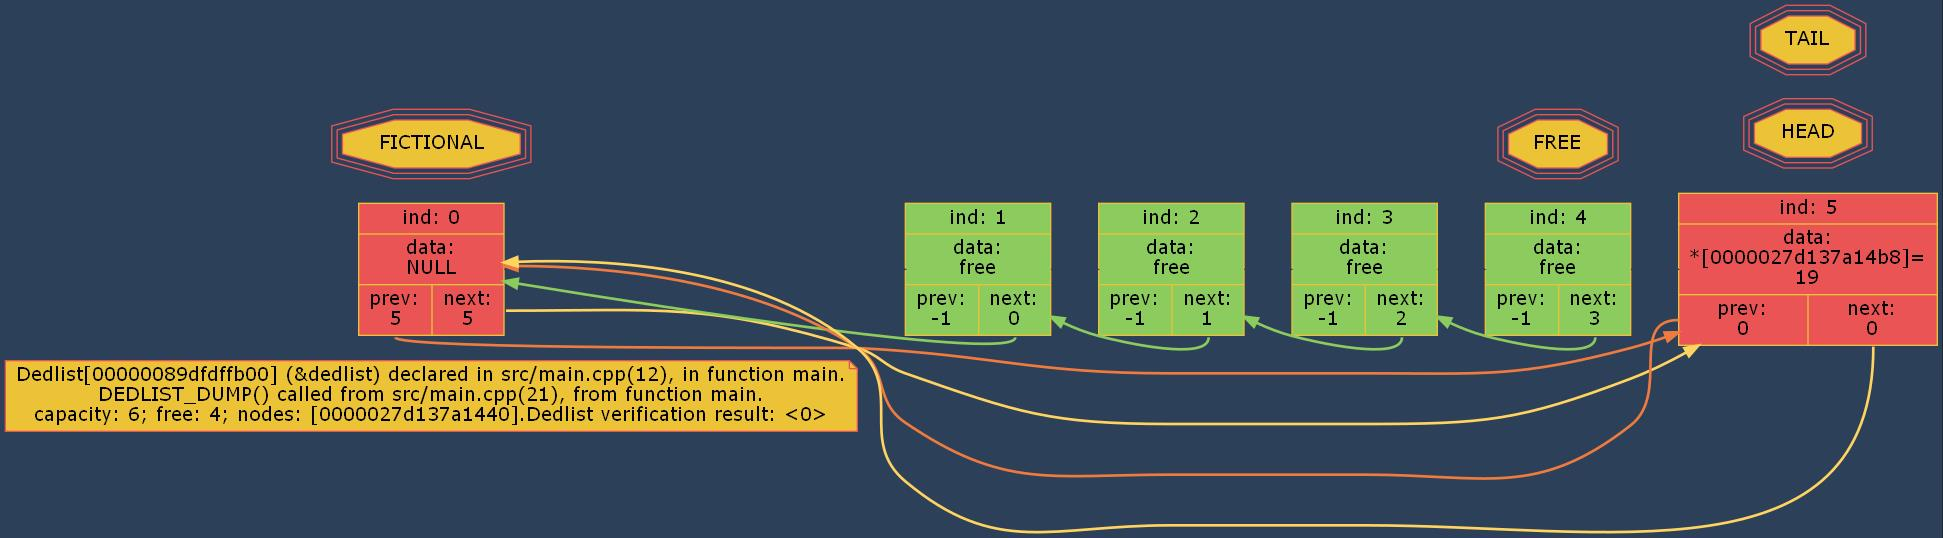
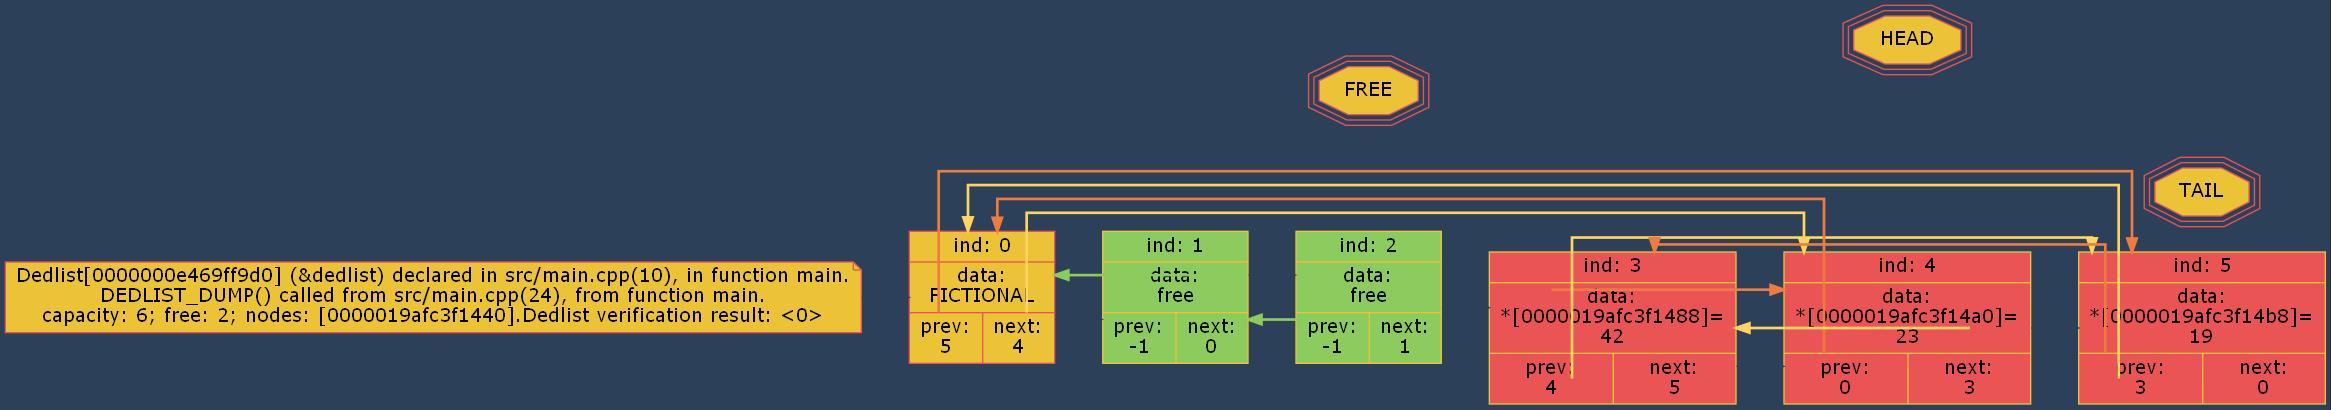
небольшие изменении в графическом дампе

diff --git a/src/dedlist.cpp b/src/dedlist.cpp
@@ -50,7 +50,7 @@ DedlistStatusCode dedlist_push_head(    Dedlist *dedlist_ptr,
                                         Elem_t value,
                                         size_t* inserted_elem_anchor_ptr )
 {
-    return dedlist_insert( dedlist_ptr, dedlist_get_head_ind(dedlist_ptr), value, inserted_elem_anchor_ptr );
+    return dedlist_insert( dedlist_ptr, 0, value, inserted_elem_anchor_ptr );
 }
 
 DedlistStatusCode dedlist_push_tail(    Dedlist *dedlist_ptr,
@@ -60,6 +60,21 @@ DedlistStatusCode dedlist_push_tail(    Dedlist *dedlist_ptr,
     return dedlist_insert( dedlist_ptr, dedlist_get_tail_ind(dedlist_ptr), value, inserted_elem_anchor_ptr );
 }
 
+
+
+size_t dedlist_get_head_ind( Dedlist *dedlist_ptr )
+{
+    assert(dedlist_ptr);
+
+    return (size_t) dedlist_ptr->nodes[0].next;
+}
+
+size_t dedlist_get_tail_ind( Dedlist *dedlist_ptr )
+{
+    assert(dedlist_ptr);
+
+    return (size_t) dedlist_ptr->nodes[0].prev;
+}
 
 void dedlist_print_status_code_message( DedlistStatusCode code, FILE *stream)
 {
@@ -238,7 +253,7 @@ inline DedlistStatusCode write_dot_file_for_dump_(  FILE *dot_file,
     //---------------------------------------------------------------------
     fprintf(dot_file,   "digraph{\n"
                         "rankdir=LR;\n"
-                        "bgcolor=\"" COLOR_BG "\";\n"
+                        "bgcolor=\"" COLOR_BG "\";splines=ortho\n"
                         "\n\n\n");
     //---------------------------------------------------------------------
 
@@ -270,9 +285,9 @@ inline DedlistStatusCode write_dot_file_for_dump_(  FILE *dot_file,
     //------------------------------NODE_0---------------------------------
     fprintf(dot_file,   "NODE_0[shape=\"record\", fontname=\"verdana\",\n"
                         "style=bold, style=filled,\n"
-                        "color=\"" COLOR_OCCUP_NODE_COLOR "\", fillcolor=\"" COLOR_OCCUP_NODE_FILL "\",\n"
+                        "color=\"" COLOR_LABEL_COLOR "\", fillcolor=\"" COLOR_LABEL_FILL "\",\n"
                         "label = \""
-                        "{ <i>ind: 0 }|{ data:\\nNULL} | {<p>prev:\\n%td |<n>next:\\n%td}"
+                        "{ <i>ind: 0 }|{ data:\\nFICTIONAL} | {<p>prev:\\n%td |<n>next:\\n%td}"
                         "\"];\n\n\n",
                         dedlist_ptr->nodes[0].prev,
                         dedlist_ptr->nodes[0].next);
@@ -318,8 +333,8 @@ inline DedlistStatusCode write_dot_file_for_dump_(  FILE *dot_file,
 
 
     //-------------------------------SPECIAL_LABELS------------------------
-    fprintf(dot_file,   "FICTIONAL[shape=tripleoctagon, style=filled,\n"
-                        "fontname=\"verdana\", color=\"" COLOR_LABEL_COLOR "\", fillcolor=\"" COLOR_LABEL_FILL "\"];\n\n"
+    fprintf(dot_file,   /*"FICTIONAL[shape=tripleoctagon, style=filled,\n"
+                        "fontname=\"verdana\", color=\"" COLOR_LABEL_COLOR "\", fillcolor=\"" COLOR_LABEL_FILL "\"];\n\n"*/
                         "HEAD[shape=tripleoctagon, style=filled,\n"
                         "fontname=\"verdana\", color=\"" COLOR_LABEL_COLOR "\", fillcolor=\"" COLOR_LABEL_FILL "\"];\n\n"
                         "TAIL[shape=tripleoctagon, style=filled,\n"
@@ -330,6 +345,7 @@ inline DedlistStatusCode write_dot_file_for_dump_(  FILE *dot_file,
 
 
     //-----------------------------------NODES_SEWING----------------------
+    fprintf(dot_file,   "NODE_TEXT->NODE_0[weight=10, color=\"" COLOR_BG "\"];\n");
     for (size_t ind = 0; ind < dedlist_ptr->capacity - 1; ind++)
     {
         fprintf(dot_file,   "NODE_%lld->NODE_%lld[weight=10, color=\"" COLOR_BG "\"];\n",
@@ -339,7 +355,7 @@ inline DedlistStatusCode write_dot_file_for_dump_(  FILE *dot_file,
 
 
     //----------------------------SPECIAL_LABELS_RANKS---------------------
-    fprintf(dot_file,   "{ rank=same; FICTIONAL; NODE_0; }\n"
+    fprintf(dot_file,   /*"{ rank=same; FICTIONAL; NODE_0; }\n"*/
                         "{ rank=same; HEAD; NODE_%td; }\n"
                         "{ rank=same; TAIL; NODE_%td; }\n"
                         "{ rank=same; FREE; NODE_%td; }\n\n\n",
@@ -468,17 +484,3 @@ void dedlist_print_verify_res_(FILE *stream, int verify_res)
 }
 
 #endif //DEDLIST_DO_DUMP
-
-size_t dedlist_get_head_ind( Dedlist *dedlist_ptr )
-{
-    assert(dedlist_ptr);
-
-    return (size_t) dedlist_ptr->nodes[0].next;
-}
-
-size_t dedlist_get_tail_ind( Dedlist *dedlist_ptr )
-{
-    assert(dedlist_ptr);
-
-    return (size_t) dedlist_ptr->nodes[0].prev;
-}

diff --git a/src/main.cpp b/src/main.cpp
@@ -3,8 +3,6 @@
 
 #include "dedlist.h"
 
-// dot .\testgraph.dot -Tjpg -o .\testgraph.jpg
-
 int main()
 {
     Dedlist dedlist = {};
@@ -13,11 +11,15 @@ int main()
 
     size_t x_anchor_1 = -1;
     dedlist_push_head(&dedlist, 19, &x_anchor_1);
-    printf("x_anchor : <%lld>\n", x_anchor_1);
+    printf("x_anchor_1 : <%lld>\n", x_anchor_1);
 
     size_t x_anchor_2 = -1;
     dedlist_push_head(&dedlist, 23, &x_anchor_2);
-    printf("x_anchor : <%lld>\n", x_anchor_2);
+    printf("x_anchor_2 : <%lld>\n", x_anchor_2);
+
+    size_t x_anchor_3 = -1;
+    dedlist_insert(&dedlist, x_anchor_2, 42, &x_anchor_3);
+    printf("x_anchor_3 : <%lld>\n", x_anchor_3);
 
     DEDLIST_DUMP(&dedlist, 0);
 
